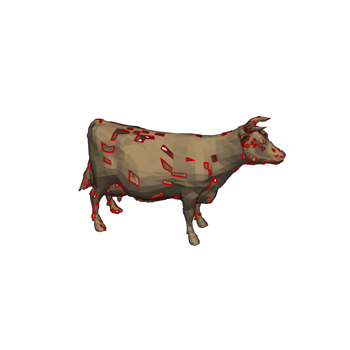
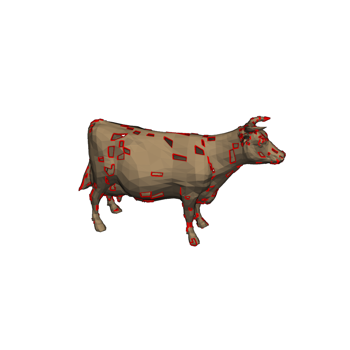
Update docs after building Travis build 51 of pyvista/pymeshfix
The docs were built from the branch 'master' against the commit
e546f50c84cab03819b79cf43d5edcfaf2949155.

The Travis build that generated this commit is at
https://travis-ci.org/pyvista/pymeshfix/jobs/538585431.

The doctr command that was run is

    /home/travis/virtualenv/python3.7.1/bin/doctr deploy --built-docs ./docs/_build/html/ .

diff --git a/searchindex.js b/searchindex.js
@@ -1,1 +1,1 @@
-Search.setIndex({docnames:["api","examples/bunny","examples/cow","examples/index","examples/sg_execution_times","examples/torso","index"],envversion:{"sphinx.domains.c":1,"sphinx.domains.changeset":1,"sphinx.domains.cpp":1,"sphinx.domains.javascript":1,"sphinx.domains.math":2,"sphinx.domains.python":1,"sphinx.domains.rst":1,"sphinx.domains.std":1,sphinx:56},filenames:["api.rst","examples/bunny.rst","examples/cow.rst","examples/index.rst","examples/sg_execution_times.rst","examples/torso.rst","index.rst"],objects:{"pymeshfix.MeshFix":{extract_holes:[0,1,1,""],load_arrays:[0,1,1,""],mesh:[0,2,1,""],plot:[0,1,1,""],repair:[0,1,1,""],save:[0,1,1,""],write:[0,1,1,""]},pymeshfix:{MeshFix:[0,0,1,""],_meshfix:[0,3,0,"-"],meshfix:[0,3,0,"-"]}},objnames:{"0":["py","class","Python class"],"1":["py","method","Python method"],"2":["py","attribute","Python attribute"],"3":["py","module","Python module"]},objtypes:{"0":"py:class","1":"py:method","2":"py:attribute","3":"py:module"},terms:{"083e":5,"0x7f2a771ce8e8":2,"0x7f2a771cea68":2,"0x7f2a771cee88":5,"320e":5,"442e":5,"446e":2,"624e":5,"637e":2,"680e":5,"696e":2,"701e":2,"720e":5,"760e":2,"998e":2,"case":6,"class":0,"default":0,"float":6,"import":[1,2,5,6],"new":0,"public":6,"return":[0,6],"true":[0,1,2,5],"while":6,FOR:6,One:6,The:6,There:6,_meshfix:6,abov:6,absolut:5,access:[0,6],add:2,add_mesh:[1,2,5],addit:0,again:6,agreement:6,all:[0,6],allow:6,along:5,altern:6,ani:6,appi:5,approach:6,arg:0,argument:0,arrai:[0,6],ascii:0,assum:6,attempt:[0,6],atten:[0,6],author:6,award:6,base:[0,6],been:6,befor:0,begin:0,bell:6,better:6,binari:0,bool:0,both:0,bound:[2,5,6],boundari:[0,6],bring:6,bunni:[3,4],cad:6,camera:[1,2],camera_posit:[1,2,5],can:[0,6],cannot:6,cast:2,cell:[2,5],charact:0,check:6,cite:6,clean:[0,6],clean_from_arrai:6,clean_from_fil:6,click:[1,2,5],clone:6,close:6,cnr:6,coars:6,code:[1,2,5],color:[1,2,5],com:6,commerci:6,commun:6,complex:5,compon:[0,5,6],comput:6,contain:0,contract:6,control:6,copi:6,correct:6,could:6,cow:[3,4],cpo:[1,2,5],cpos_ear:5,creat:6,cython:[0,6],data:0,debug:0,defect:6,defin:1,degener:6,degeneraci:[1,2,5],deprec:0,depth:[1,2,5],design:6,detail:6,digit:6,directli:6,disabl:0,disk:0,distribut:6,doi:6,download:[1,2,5],download_bunni:1,download_cow:2,download_torso:5,drive:6,dual:6,each:0,ear:5,eas:6,either:[0,6],element:6,emphas:5,enabl:0,enable_eye_dome_light:[1,2,5],ensur:5,even:6,exampl:[1,2,4,5],execut:4,extens:0,extract:[0,1,5],extract_geometri:2,extract_hol:[0,1,2,5],eye_dome_light:5,face:[0,6],fail:6,fals:0,faster:0,fclean:6,file:[0,4],filenam:0,filetyp:0,fill:6,fill_small_boundari:6,filter:5,fit:6,fix:[1,2,5],flaw:6,follow:[0,6],format:6,foundat:6,free:6,from:[0,1,2,5,6],ftype:0,full:[1,2,5],galleri:[1,2,3,5],gener:[1,2,3,5,6],git:6,github:6,gnu:6,gpl:6,hard:6,has:6,have:6,help:[1,2,5],here:[1,2,5,6],hole:[0,1,2,5,6],holei:[3,4],holy_cow:2,hope:6,how:6,http:6,idea:6,imati:6,impli:6,infer:0,infil:6,inner_loop:6,inplac:0,input:6,int32:6,interfac:0,intersect:[1,2,5,6],invert:2,ipynb:[1,2,5],isol:0,join:[0,6],join_closest_compon:6,joincomp:0,jupyt:[1,2,5],keyword:0,kwarg:0,largest:0,later:6,left:6,leverag:6,librari:6,licens:6,lightweight:6,line:0,line_width:[1,2,5],list:6,load:[0,6],load_arrai:[0,6],loadfil:6,locat:2,mai:[0,6],main:6,marco:[0,6],max_it:6,memori:6,merchant:6,mesh:[0,1,2,5,6],meshfix:[0,1,2,5,6],method:0,might:6,minut:[1,2,5],model:6,modifi:6,modul:[0,6],more:6,much:0,must:6,n_cell:2,nativ:6,ndarrai:0,nearbi:[0,6],necessari:6,need:5,nice:2,note:0,notebook:[1,2,5],numpi:[0,2,6],object:[0,6],occurr:6,one:0,open:0,option:[0,6],org:6,other:6,out:[1,2,5,6],outfil:6,outlin:[1,2,5],output:6,over:6,overridden:0,paper:6,paramet:0,part:[5,6],particular:6,patch:[1,2,5],percept:[1,2,5],perform:[0,6],perfrom:5,pip:6,pleas:6,plot:[0,1,2,5,6],plotter:[1,2,5],ply:[0,6],point:[0,2,5],polydata:[0,2,5],polygon:6,polyhedr:5,polyhedron:6,portabl:6,posit:1,present:6,print:[0,2,5,6],process:0,produc:6,program:6,proper:6,publish:6,purpos:6,pymeshfix:[0,1,2,5],pypi:6,python:[0,1,2,5,6],pytmesh:6,pyvista:[0,1,2,5,6],rand:2,random:2,raw:6,reach:6,read:6,readi:1,reason:6,redistribut:6,refer:6,region:6,remov:[0,5,6],remove_smallest_compon:0,render:[1,2],repair:[0,1,2,5,6],repres:6,requir:6,research:6,reserv:6,result:[2,6],return_arrai:6,right:6,run:[1,2,5,6],s00371:6,same:6,save:[0,6],save_fil:6,scalar:[2,5],script:[1,2,5],second:[1,2,5],see:6,self:6,set:6,should:[0,6],show:[0,1,2,5],show_edg:5,show_hol:0,simpl:0,simpli:5,singl:6,singular:6,small:5,softwar:6,solid:6,sort:6,sourc:[1,2,5,6],specif:6,specifi:0,speed:6,sphinx:[1,2,3,5],sphinx_gallery_thumbnail_numb:[1,2,5],springer:6,stl:0,str:0,string:0,subtl:5,surfac:[0,6],take:6,term:6,tessel:6,test:6,tetrahedr:0,than:0,thei:6,them:0,therefor:6,therein:6,thi:[0,5,6],three:0,threshold:2,thu:6,tight:5,time:[1,2,5],tin:6,tmesh:6,torso:[3,4],total:[1,2,4,5],tri_filt:[2,5],triangl:[5,6],triangul:2,triangular:0,txt:6,type:0,typic:6,unavail:6,under:6,understand:6,unless:0,unmodifi:6,updat:0,use:6,used:6,useful:6,user:6,uses:6,using:[0,6],vclean:6,verbos:[0,1,2,5],version:6,vertex:[0,6],view:6,visual:6,vtk:0,vtkinterfac:6,warranti:6,water:5,watertight:6,where:[5,6],whistl:6,win:6,wish:6,with_vtk:6,within:6,wonder:6,work:6,wrap:0,wrapper:[0,6],write:[0,6],written:0,www:6,xyz:0,you:6,your:6},titles:["API Reference","Bunny","Holey Cow","Examples","Computation times","Torso","PyMeshFix"],titleterms:{algorithm:6,api:0,bunni:1,citat:6,complet:6,comput:4,copyright:6,cow:2,depend:6,easi:6,exampl:[3,6],holei:2,instal:6,polici:6,pymeshfix:6,refer:0,time:4,torso:5,vtk:6,without:6}})
+Search.setIndex({docnames:["api","examples/bunny","examples/cow","examples/index","examples/sg_execution_times","examples/torso","index"],envversion:{"sphinx.domains.c":1,"sphinx.domains.changeset":1,"sphinx.domains.cpp":1,"sphinx.domains.javascript":1,"sphinx.domains.math":2,"sphinx.domains.python":1,"sphinx.domains.rst":1,"sphinx.domains.std":1,sphinx:56},filenames:["api.rst","examples/bunny.rst","examples/cow.rst","examples/index.rst","examples/sg_execution_times.rst","examples/torso.rst","index.rst"],objects:{"pymeshfix.MeshFix":{extract_holes:[0,1,1,""],load_arrays:[0,1,1,""],mesh:[0,2,1,""],plot:[0,1,1,""],repair:[0,1,1,""],save:[0,1,1,""],write:[0,1,1,""]},pymeshfix:{MeshFix:[0,0,1,""],_meshfix:[0,3,0,"-"],meshfix:[0,3,0,"-"]}},objnames:{"0":["py","class","Python class"],"1":["py","method","Python method"],"2":["py","attribute","Python attribute"],"3":["py","module","Python module"]},objtypes:{"0":"py:class","1":"py:method","2":"py:attribute","3":"py:module"},terms:{"083e":5,"0x7fdd4caa8c48":5,"0x7fdd4cabd0a8":2,"0x7fdd4cabdb88":2,"320e":5,"442e":5,"446e":2,"624e":5,"637e":2,"680e":5,"696e":2,"701e":2,"720e":5,"760e":2,"998e":2,"case":6,"class":0,"default":0,"float":6,"import":[1,2,5,6],"new":0,"public":6,"return":[0,6],"true":[0,1,2,5],"while":6,FOR:6,One:6,The:6,There:6,_meshfix:6,abov:6,absolut:5,access:[0,6],add:2,add_mesh:[1,2,5],addit:0,again:6,agreement:6,all:[0,6],allow:6,along:5,altern:6,ani:6,appi:5,approach:6,arg:0,argument:0,arrai:[0,6],ascii:0,assum:6,attempt:[0,6],atten:[0,6],author:6,award:6,base:[0,6],been:6,befor:0,begin:0,bell:6,better:6,binari:0,bool:0,both:0,bound:[2,5,6],boundari:[0,6],bring:6,bunni:[3,4],cad:6,camera:[1,2],camera_posit:[1,2,5],can:[0,6],cannot:6,cast:2,cell:[2,5],charact:0,check:6,cite:6,clean:[0,6],clean_from_arrai:6,clean_from_fil:6,click:[1,2,5],clone:6,close:6,cnr:6,coars:6,code:[1,2,5],color:[1,2,5],com:6,commerci:6,commun:6,complex:5,compon:[0,2,5,6],comput:6,contain:0,contract:6,control:6,copi:6,correct:6,could:6,cow:[3,4],cpo:[1,2,5],cpos_ear:5,creat:6,cython:[0,6],data:0,debug:0,defect:6,defin:1,degener:6,degeneraci:[1,2,5],deprec:0,depth:[1,2,5],design:6,detail:6,digit:6,directli:6,disabl:0,disk:0,distribut:6,doi:6,download:[1,2,5],download_bunni:1,download_cow:2,download_torso:5,drive:6,dual:6,each:0,ear:5,eas:6,either:[0,6],element:6,emphas:5,enabl:0,enable_eye_dome_light:[1,2,5],ensur:5,even:6,exampl:[1,2,4,5],execut:4,extens:0,extract:[0,1,5],extract_geometri:2,extract_hol:[0,1,2,5],eye_dome_light:5,face:[0,6],fail:6,fals:0,faster:0,fclean:6,file:[0,4],filenam:0,filetyp:0,fill:6,fill_small_boundari:6,filter:5,fit:6,fix:[1,2,5],flaw:6,follow:[0,6],format:6,foundat:6,free:6,from:[0,1,2,5,6],ftype:0,full:[1,2,5],galleri:[1,2,3,5],gener:[1,2,3,5,6],git:6,github:6,gnu:6,gpl:6,hard:6,has:6,have:6,help:[1,2,5],here:[1,2,5,6],hole:[0,1,2,5,6],holei:[3,4],holy_cow:2,hope:6,how:6,http:6,idea:6,imati:6,impli:6,infer:0,infil:6,inner_loop:6,inplac:0,input:6,int32:6,interfac:0,intersect:[1,2,5,6],invert:2,ipynb:[1,2,5],isol:0,join:[0,6],join_closest_compon:6,joincomp:0,jupyt:[1,2,5],keyword:0,kwarg:0,largest:0,later:6,left:6,leverag:6,librari:6,licens:6,lightweight:6,line:0,line_width:[1,2,5],list:6,load:[0,6],load_arrai:[0,6],loadfil:6,locat:2,mai:[0,6],main:6,marco:[0,6],max_it:6,memori:6,merchant:6,mesh:[0,1,2,5,6],meshfix:[0,1,2,5,6],method:0,might:6,minut:[1,2,5],model:6,modifi:6,modul:[0,6],more:6,much:0,must:6,n_cell:2,nativ:6,ndarrai:0,nearbi:[0,6],necessari:6,need:5,nice:2,note:0,notebook:[1,2,5],numpi:[0,2,6],object:[0,6],occurr:6,one:0,open:0,option:[0,6],org:6,other:6,out:[1,2,5,6],outfil:6,outlin:[1,2,5],output:6,over:6,overridden:0,paper:6,paramet:0,part:[5,6],particular:6,patch:[1,2,5],percept:[1,2,5],perform:[0,6],perfrom:5,pip:6,pleas:6,plot:[0,1,2,5,6],plotter:[1,2,5],ply:[0,6],point:[0,2,5],polydata:[0,2,5],polygon:6,polyhedr:5,polyhedron:6,portabl:6,posit:1,present:6,print:[0,2,5,6],process:0,produc:6,program:6,proper:6,publish:6,purpos:6,pymeshfix:[0,1,2,5],pypi:6,python:[0,1,2,5,6],pytmesh:6,pyvista:[0,1,2,5,6],rand:2,random:2,raw:6,reach:6,read:6,readi:1,reason:6,redistribut:6,refer:6,region:6,remov:[0,2,5,6],remove_smallest_compon:0,render:[1,2],repair:[0,1,2,5,6],repres:6,requir:6,research:6,reserv:6,result:[2,6],return_arrai:6,right:6,run:[1,2,5,6],s00371:6,same:6,save:[0,6],save_fil:6,scalar:[2,5],script:[1,2,5],second:[1,2,5],see:6,self:6,set:6,should:[0,6],show:[0,1,2,5],show_edg:5,show_hol:0,simpl:0,simpli:5,singl:6,singular:6,small:[2,5],softwar:6,solid:6,sort:6,sourc:[1,2,5,6],specif:6,specifi:0,speed:6,sphinx:[1,2,3,5],sphinx_gallery_thumbnail_numb:[1,2,5],springer:6,stl:0,str:0,string:0,subtl:5,surfac:[0,6],take:6,term:6,tessel:6,test:6,tetrahedr:0,than:0,thei:6,them:0,therefor:6,therein:6,thi:[0,5,6],three:0,threshold:2,thu:6,tight:5,time:[1,2,5],tin:6,tmesh:6,torso:[3,4],total:[1,2,4,5],tri_filt:[2,5],triangl:[5,6],triangul:2,triangular:0,txt:6,type:0,typic:6,unavail:6,under:6,understand:6,unless:0,unmodifi:6,updat:0,use:6,used:6,useful:6,user:6,uses:6,using:[0,6],vclean:6,verbos:[0,1,2,5],version:6,vertex:[0,6],view:6,visual:6,vtk:0,vtkinterfac:6,warranti:6,water:5,watertight:6,where:[5,6],whistl:6,win:6,wish:6,with_vtk:6,within:6,wonder:6,work:6,wrap:0,wrapper:[0,6],write:[0,6],written:0,www:6,xyz:0,you:6,your:6},titles:["API Reference","Bunny","Holey Cow","Examples","Computation times","Torso","PyMeshFix"],titleterms:{algorithm:6,api:0,bunni:1,citat:6,complet:6,comput:4,copyright:6,cow:2,depend:6,easi:6,exampl:[3,6],holei:2,instal:6,polici:6,pymeshfix:6,refer:0,time:4,torso:5,vtk:6,without:6}})

diff --git a/examples/cow.html b/examples/cow.html
@@ -223,9 +223,9 @@
 </pre></div>
 </div>
 <p class="sphx-glr-script-out">Out:</p>
-<div class="sphx-glr-script-out highlight-none notranslate"><div class="highlight"><pre><span></span>PolyData (0x7f2a771ce8e8)
-  N Cells:      5216
-  N Points:     2903
+<div class="sphx-glr-script-out highlight-none notranslate"><div class="highlight"><pre><span></span>PolyData (0x7fdd4cabdb88)
+  N Cells:      5225
+  N Points:     2902
   X Bounds:     -4.446e+00, 5.998e+00
   Y Bounds:     -3.637e+00, 2.760e+00
   Z Bounds:     -1.701e+00, 1.701e+00
@@ -255,8 +255,9 @@
 </pre></div>
 </div>
 <p class="sphx-glr-script-out">Out:</p>
-<div class="sphx-glr-script-out highlight-none notranslate"><div class="highlight"><pre><span></span>Patching holes...
-Patched 203 holes
+<div class="sphx-glr-script-out highlight-none notranslate"><div class="highlight"><pre><span></span>Removed 1 small components
+Patching holes...
+Patched 193 holes
 Fixing degeneracies and intersections
 </pre></div>
 </div>
@@ -266,9 +267,9 @@ Fixing degeneracies and intersections
 </pre></div>
 </div>
 <p class="sphx-glr-script-out">Out:</p>
-<div class="sphx-glr-script-out highlight-none notranslate"><div class="highlight"><pre><span></span>PolyData (0x7f2a771cea68)
-  N Cells:      5452
-  N Points:     2728
+<div class="sphx-glr-script-out highlight-none notranslate"><div class="highlight"><pre><span></span>PolyData (0x7fdd4cabd0a8)
+  N Cells:      5426
+  N Points:     2715
   X Bounds:     -3.696e+00, 5.998e+00
   Y Bounds:     -3.637e+00, 2.760e+00
   Z Bounds:     -1.701e+00, 1.701e+00
@@ -279,7 +280,7 @@ Fixing degeneracies and intersections
 </pre></div>
 </div>
 <img alt="../_images/sphx_glr_cow_002.png" class="sphx-glr-single-img" src="../_images/sphx_glr_cow_002.png" />
-<p class="sphx-glr-timing"><strong>Total running time of the script:</strong> ( 0 minutes  5.368 seconds)</p>
+<p class="sphx-glr-timing"><strong>Total running time of the script:</strong> ( 0 minutes  5.328 seconds)</p>
 <div class="sphx-glr-footer class sphx-glr-footer-example docutils container" id="sphx-glr-download-examples-cow-py">
 <div class="sphx-glr-download docutils container">
 <p><a class="reference download internal" download="" href="../_downloads/700f1bf357ea69088c0a34b0aa306d26/cow.py"><code class="xref download docutils literal notranslate"><span class="pre">Download</span> <span class="pre">Python</span> <span class="pre">source</span> <span class="pre">code:</span> <span class="pre">cow.py</span></code></a></p>

diff --git a/examples/sg_execution_times.html b/examples/sg_execution_times.html
@@ -193,11 +193,11 @@
             
   <div class="section" id="computation-times">
 <span id="sphx-glr-examples-sg-execution-times"></span><h1>Computation times<a class="headerlink" href="#computation-times" title="Permalink to this headline">¶</a></h1>
-<p><strong>00:36.595</strong> total execution time for <strong>examples</strong> files:</p>
+<p><strong>00:36.014</strong> total execution time for <strong>examples</strong> files:</p>
 <ul class="simple">
-<li><p><strong>00:17.194</strong>: <a class="reference internal" href="torso.html#sphx-glr-examples-torso-py"><span class="std std-ref">Torso</span></a> (<code class="docutils literal notranslate"><span class="pre">torso.py</span></code>)</p></li>
-<li><p><strong>00:14.034</strong>: <a class="reference internal" href="bunny.html#sphx-glr-examples-bunny-py"><span class="std std-ref">Bunny</span></a> (<code class="docutils literal notranslate"><span class="pre">bunny.py</span></code>)</p></li>
-<li><p><strong>00:05.368</strong>: <a class="reference internal" href="cow.html#sphx-glr-examples-cow-py"><span class="std std-ref">Holey Cow</span></a> (<code class="docutils literal notranslate"><span class="pre">cow.py</span></code>)</p></li>
+<li><p><strong>00:17.165</strong>: <a class="reference internal" href="torso.html#sphx-glr-examples-torso-py"><span class="std std-ref">Torso</span></a> (<code class="docutils literal notranslate"><span class="pre">torso.py</span></code>)</p></li>
+<li><p><strong>00:13.521</strong>: <a class="reference internal" href="bunny.html#sphx-glr-examples-bunny-py"><span class="std std-ref">Bunny</span></a> (<code class="docutils literal notranslate"><span class="pre">bunny.py</span></code>)</p></li>
+<li><p><strong>00:05.328</strong>: <a class="reference internal" href="cow.html#sphx-glr-examples-cow-py"><span class="std std-ref">Holey Cow</span></a> (<code class="docutils literal notranslate"><span class="pre">cow.py</span></code>)</p></li>
 </ul>
 </div>
 

diff --git a/examples/torso.html b/examples/torso.html
@@ -219,7 +219,7 @@ parts of the mesh</p>
 </pre></div>
 </div>
 <p class="sphx-glr-script-out">Out:</p>
-<div class="sphx-glr-script-out highlight-none notranslate"><div class="highlight"><pre><span></span>PolyData (0x7f2a771cee88)
+<div class="sphx-glr-script-out highlight-none notranslate"><div class="highlight"><pre><span></span>PolyData (0x7fdd4caa8c48)
   N Cells:      12448
   N Points:     12015
   X Bounds:     -1.680e+02, 1.720e+02
@@ -282,7 +282,7 @@ Fixing degeneracies and intersections
 </pre></div>
 </div>
 <img alt="../_images/sphx_glr_torso_004.png" class="sphx-glr-single-img" src="../_images/sphx_glr_torso_004.png" />
-<p class="sphx-glr-timing"><strong>Total running time of the script:</strong> ( 0 minutes  17.194 seconds)</p>
+<p class="sphx-glr-timing"><strong>Total running time of the script:</strong> ( 0 minutes  17.165 seconds)</p>
 <div class="sphx-glr-footer class sphx-glr-footer-example docutils container" id="sphx-glr-download-examples-torso-py">
 <div class="sphx-glr-download docutils container">
 <p><a class="reference download internal" download="" href="../_downloads/988781b05954ec5068adbfe7a980b827/torso.py"><code class="xref download docutils literal notranslate"><span class="pre">Download</span> <span class="pre">Python</span> <span class="pre">source</span> <span class="pre">code:</span> <span class="pre">torso.py</span></code></a></p>

diff --git a/examples/bunny.html b/examples/bunny.html
@@ -255,7 +255,7 @@ Fixing degeneracies and intersections
 </pre></div>
 </div>
 <img alt="../_images/sphx_glr_bunny_003.png" class="sphx-glr-single-img" src="../_images/sphx_glr_bunny_003.png" />
-<p class="sphx-glr-timing"><strong>Total running time of the script:</strong> ( 0 minutes  14.034 seconds)</p>
+<p class="sphx-glr-timing"><strong>Total running time of the script:</strong> ( 0 minutes  13.521 seconds)</p>
 <div class="sphx-glr-footer class sphx-glr-footer-example docutils container" id="sphx-glr-download-examples-bunny-py">
 <div class="sphx-glr-download docutils container">
 <p><a class="reference download internal" download="" href="../_downloads/81a10a6450959c49a589aa8cee630836/bunny.py"><code class="xref download docutils literal notranslate"><span class="pre">Download</span> <span class="pre">Python</span> <span class="pre">source</span> <span class="pre">code:</span> <span class="pre">bunny.py</span></code></a></p>
